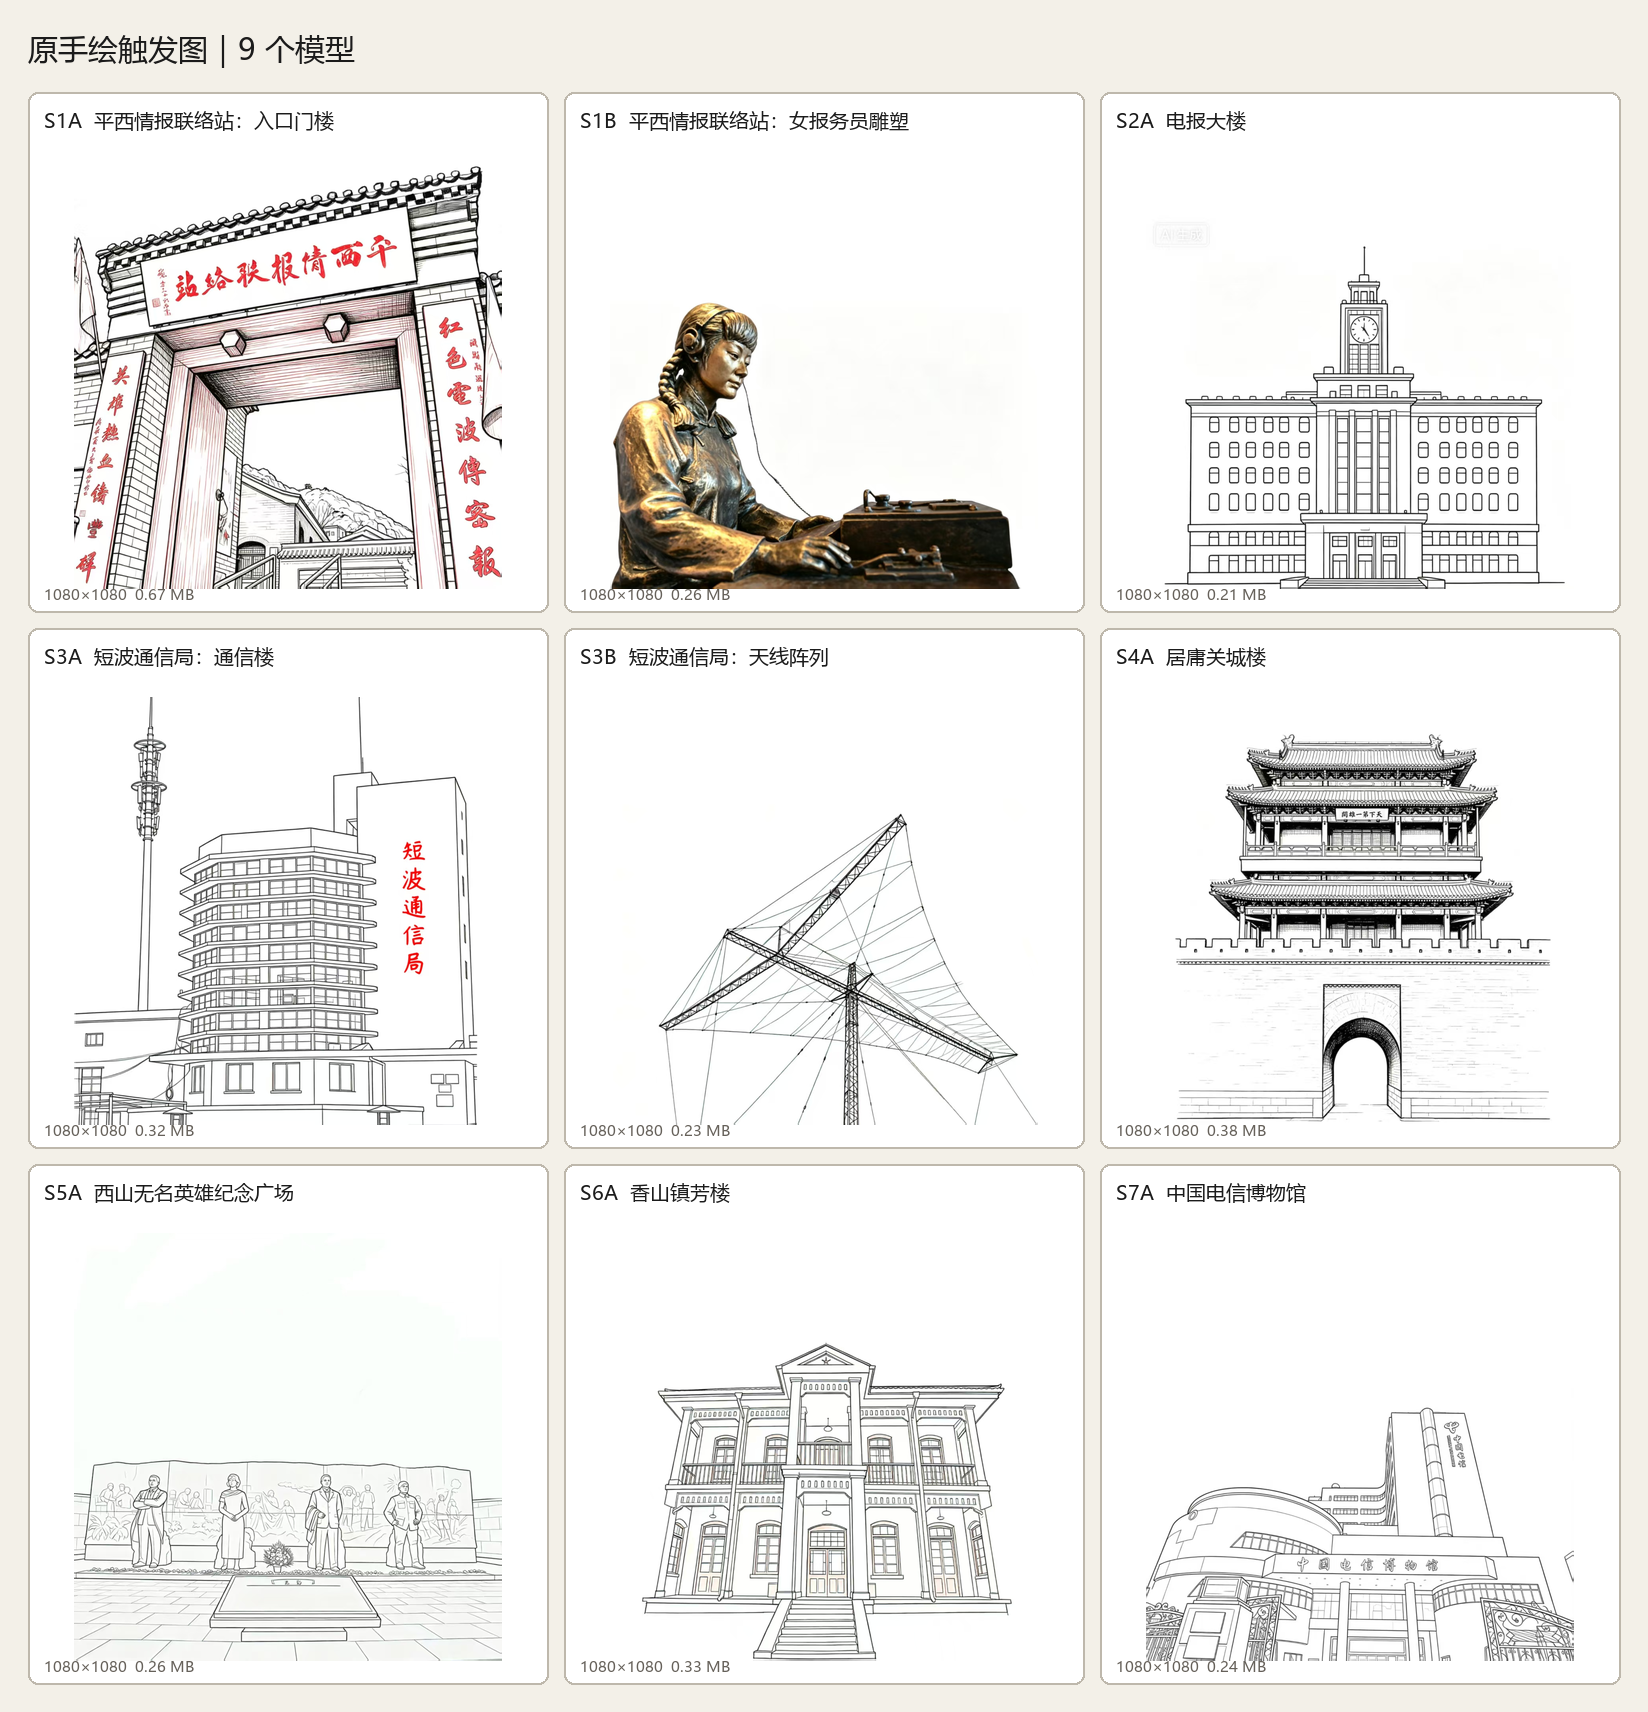
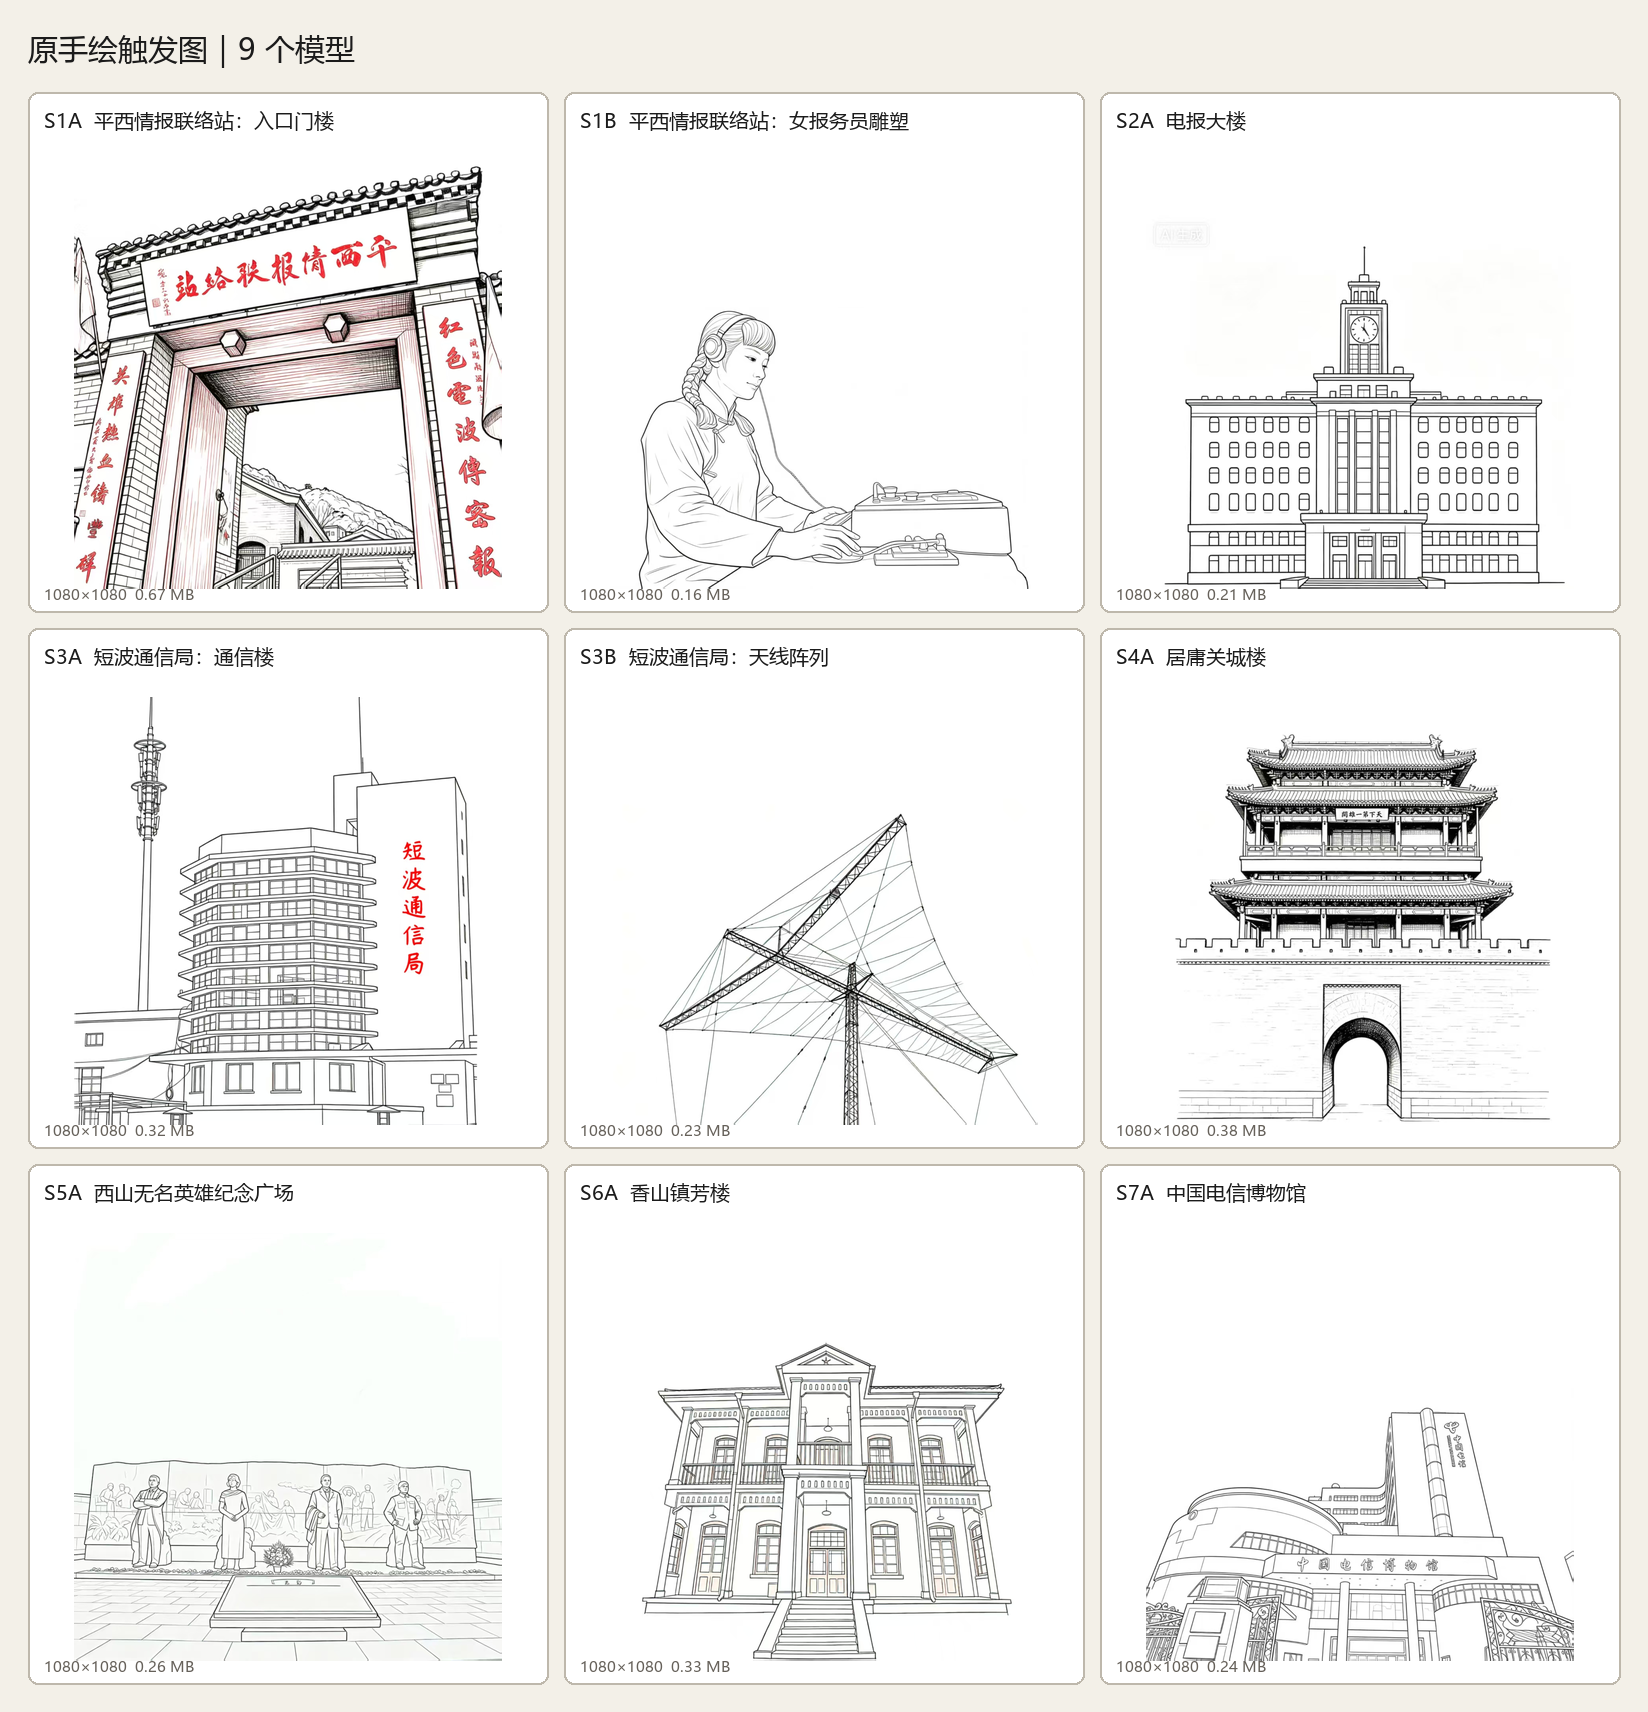
use supplied S1B trigger drawing

Changed region(s): [[0.3714, 0.1548, 0.6189, 0.3715]]

diff --git a/lkivivube_delivery/source/prepare_all_kivicube_packages.py b/lkivivube_delivery/source/prepare_all_kivicube_packages.py
@@ -35,7 +35,7 @@ ASSETS = [
     {
         "asset_id": "S1B", "scene": "S1_pingxi_intelligence_station", "folder": "S1B_radio_operator_statue",
         "display_name_zh": "平西情报联络站：女报务员雕塑及发报设备", "model": "S1B_radio_operator_statue_v003.glb",
-        "trigger": ref("S1", "平西情报联络站2.jpg"), "reference": ref("S1", "微信图片_20260716203647_1419_5130.jpg"),
+        "trigger": ref("S1", "S1B_radio_operator_trigger_hand_drawn.jpg"), "reference": ref("S1", "微信图片_20260716203647_1419_5130.jpg"),
         "status": "PRIVACY_AND_RIGHTS_PENDING",
     },
     {

diff --git a/lkivivube_delivery/source/make_trigger_reference_review.py b/lkivivube_delivery/source/make_trigger_reference_review.py
@@ -36,7 +36,7 @@ ASSETS = [
     {
         "asset_id": "S1B",
         "display_name_zh": "平西情报联络站：女报务员雕塑",
-        "trigger": source("S1", "平西情报联络站2.jpg"),
+        "trigger": source("S1", "S1B_radio_operator_trigger_hand_drawn.jpg"),
         "reference": source("S1", "微信图片_20260716203647_1419_5130.jpg"),
     },
     {

diff --git a/modeling_input/S1/00_START_HERE.md b/modeling_input/S1/00_START_HERE.md
@@ -9,7 +9,7 @@
 | 单元 | 对象 | 手绘触发图 | 真实照片 | 当前模型 |
 |---|---|---|---|---|
 | S1A | 入口门楼 | `trigger_hand_drawn.jpg` | `微信图片_20260712203953_1152_5130.jpg` | `S1A_pingxi_gate_v003.glb` |
-| S1B | 女报务员雕塑及发报设备 | `平西情报联络站2.jpg` | `微信图片_20260716203647_1419_5130.jpg` | `S1B_radio_operator_statue_v003.glb` |
+| S1B | 女报务员雕塑及发报设备 | `S1B_radio_operator_trigger_hand_drawn.jpg` | `微信图片_20260716203647_1419_5130.jpg` | `S1B_radio_operator_statue_v003.glb` |
 
 默认体验顺序是：识别红白黑手绘触发图 → 同位置等比例展示触发图对应原图 → GLB 与脚下地面贴图同时从照片主体下缘展开 → 旁白。原图保持可见，不使用通用厚展台。
 
@@ -26,7 +26,7 @@
 ## 素材放置
 
 - 原始图片和文字：`local_reference/`，仅限本地受控使用。
-- 手绘触发图：S1A 原图为 `local_reference/**/trigger_hand_drawn.jpg`，S1B 原图为 `local_reference/**/平西情报联络站2.jpg`；Kivicube 包内仅复制原文件，不重绘、不裁切。两者均须经真机识别审核后再公开发布。
+- 手绘触发图：S1A 原图为 `local_reference/**/trigger_hand_drawn.jpg`，S1B 原图为 `local_reference/**/S1B_radio_operator_trigger_hand_drawn.jpg`；Kivicube 包内仅复制原文件，不重绘、不裁切。两者均须经真机识别审核后再公开发布。
 - 真实照片展示图：必须登记与触发图的对应关系及公开展示许可；未经许可不得复制到平台 `images/`。
 - 文件级对应关系：[`../REFERENCE_INVENTORY.md`](../REFERENCE_INVENTORY.md)。
 - 可追踪形象约束：[`visual_constraints.md`](visual_constraints.md)，已分别记录 S1A、S1B 的逐图依据、主体特征、推断边界和提示词片段。

diff --git a/modeling_input/REFERENCE_INVENTORY.md b/modeling_input/REFERENCE_INVENTORY.md
@@ -13,7 +13,7 @@
 | 单元 | 地点与对象 | 手绘触发图原文件 | 真实照片原文件 | 计划 GLB | 展示图预处理 |
 |---|---|---|---|---|---|
 | S1A | 平西情报联络站入口门楼 | `S1/.../trigger_hand_drawn.jpg` | `S1/.../微信图片_20260712203953_1152_5130.jpg` | `S1A_pingxi_gate_v003.glb` | 尺寸可用；公开权待确认 |
-| S1B | 平西女报务员雕塑及发报设备 | `S1/.../平西情报联络站2.jpg` | `S1/.../微信图片_20260716203647_1419_5130.jpg` | `S1B_radio_operator_statue_v003.glb` | 原图须缩至 ≤2048 长边；背景人物与公开权待处理 |
+| S1B | 平西女报务员雕塑及发报设备 | `S1/.../S1B_radio_operator_trigger_hand_drawn.jpg` | `S1/.../微信图片_20260716203647_1419_5130.jpg` | `S1B_radio_operator_statue_v003.glb` | 触发图 1080×1080，原样复制；真实照片须缩至 ≤2048 长边，背景人物与公开权待处理 |
 | S2A | 电报大楼 | `S2/.../trigger_hand_drawn.jpg` | `S2/.../微信图片_20260727183423_918_1.jpg` | `S2A_telegraph_building_v003.glb` | 需压至 ≤5 MB，并裁除车牌等无关信息 |
 | S3A | S3 参考素材所示通信楼 | `S3/.../trigger_hand_drawn.jpg` | `S3/.../微信图片_20260727183421_916_1.jpg` | `S3A_shortwave_station_building_v003.glb` | 尺寸与体积可用；具体台站身份与公开权待确认 |
 | S3B | S3 参考素材所示天线阵列 | `S3/.../短波通信局2.jpg` | `S3/.../微信图片_20260727183422_917_1.jpg` | `S3B_shortwave_antenna_array_v003.glb` | 尺寸与体积可用；具体台站身份与公开权待确认 |

diff --git a/lkivivube_delivery/scenes/S1_pingxi_intelligence_station/asset_card.md b/lkivivube_delivery/scenes/S1_pingxi_intelligence_station/asset_card.md
@@ -31,7 +31,7 @@
 ## 交付与验收
 
 - S1A 触发图／原图／地面贴图：`kivicube_package/S1A_pingxi_gate/`。
-- S1B 触发图／原图／地面贴图：`kivicube_package/S1B_radio_operator_statue/`；触发图保持原文件，绘制参考原图保留原画幅比例。
+- S1B 触发图／原图／地面贴图：`kivicube_package/S1B_radio_operator_statue/`；触发图使用 `S1B_radio_operator_trigger_hand_drawn.jpg` 原文件，保持原样、不重绘、不裁切；绘制参考原图保留原画幅比例。
 - 每个单元的 Kivicube 时间线、贴图平面与模型摆放参数，见各自 `kivicube_package/*/kivicube_setup.json`。
 - 形象与真实配色约束：已按 V2.1 原位复核用于 V3；S1A 六级入口台阶已纠正为外侧最低、靠门最高，并压暗灰砖、灰瓦与酒红木构。
 - S1B 已重排为人物在左后、设备在右前的三分之四构图，使用连续法线的雕刻式头脸、收分袖管与分指双手，细化扫发、发辫、圆耳罩、盘扣衣襟、箱式报务机和电键；46,316 三角面属于近景人物专项预算，低于平台 50,000 硬上限。不可见面采用 `INFERRED_LOW_DETAIL`，不生成照片未显示的腿脚姿态。
